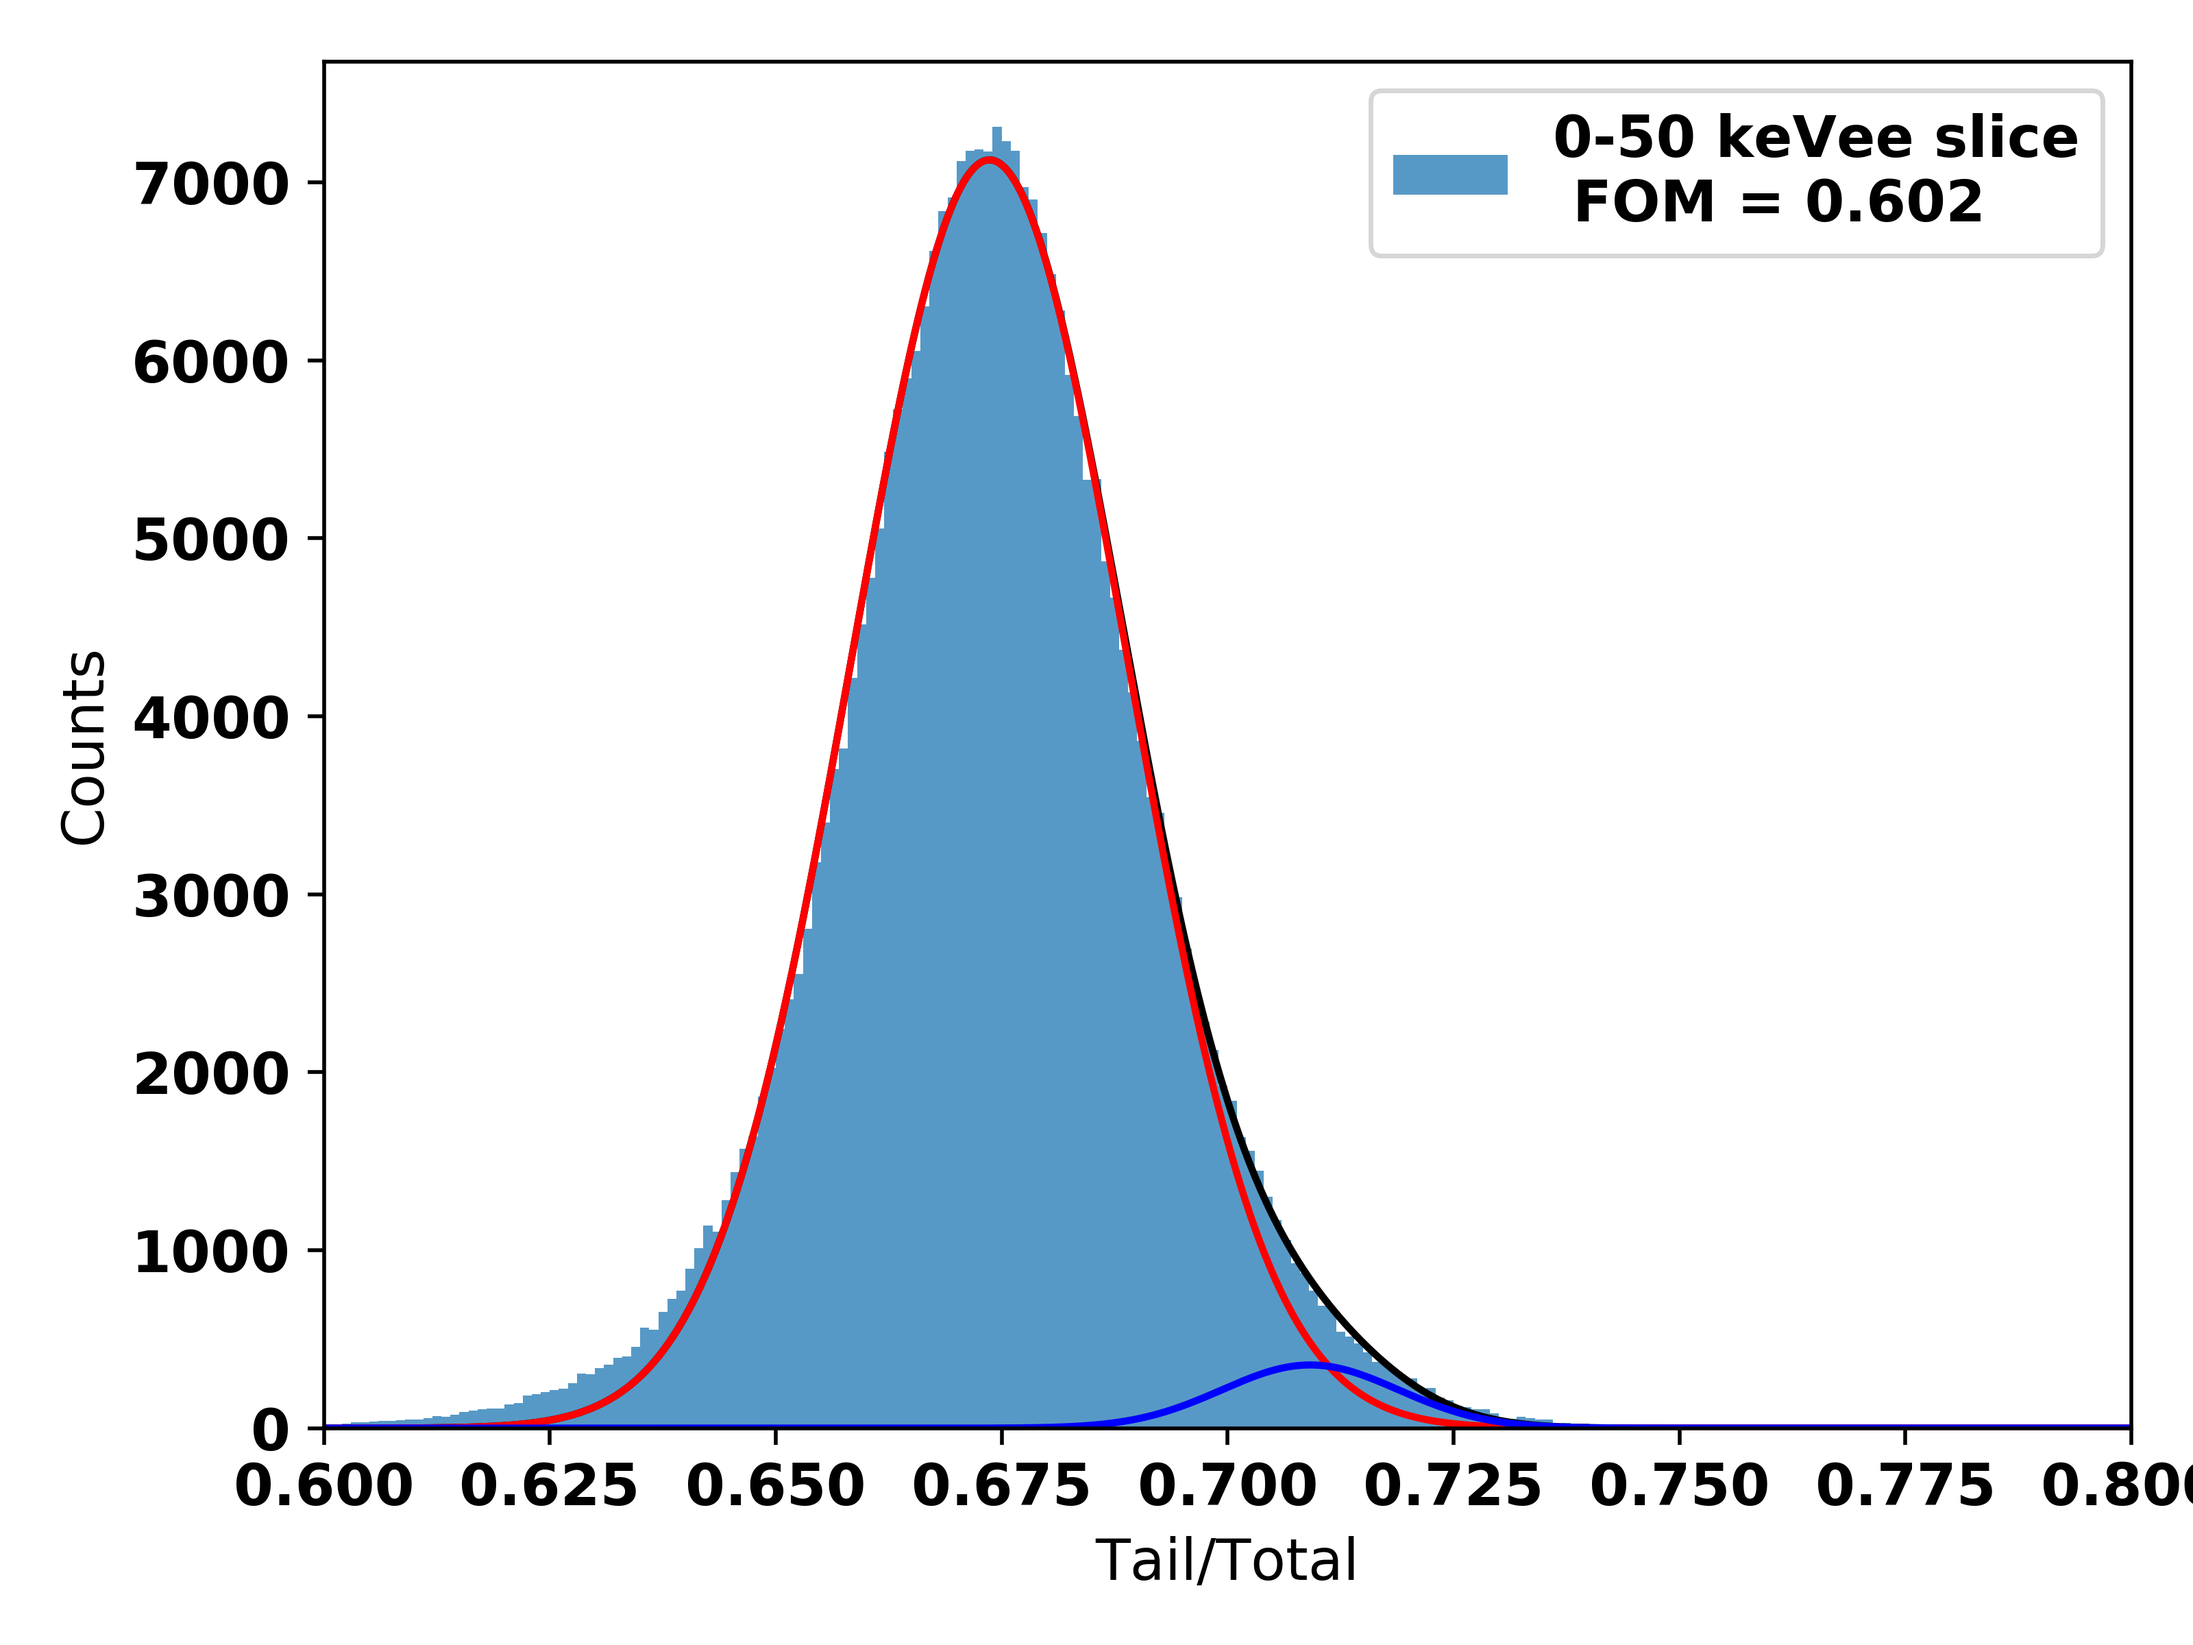
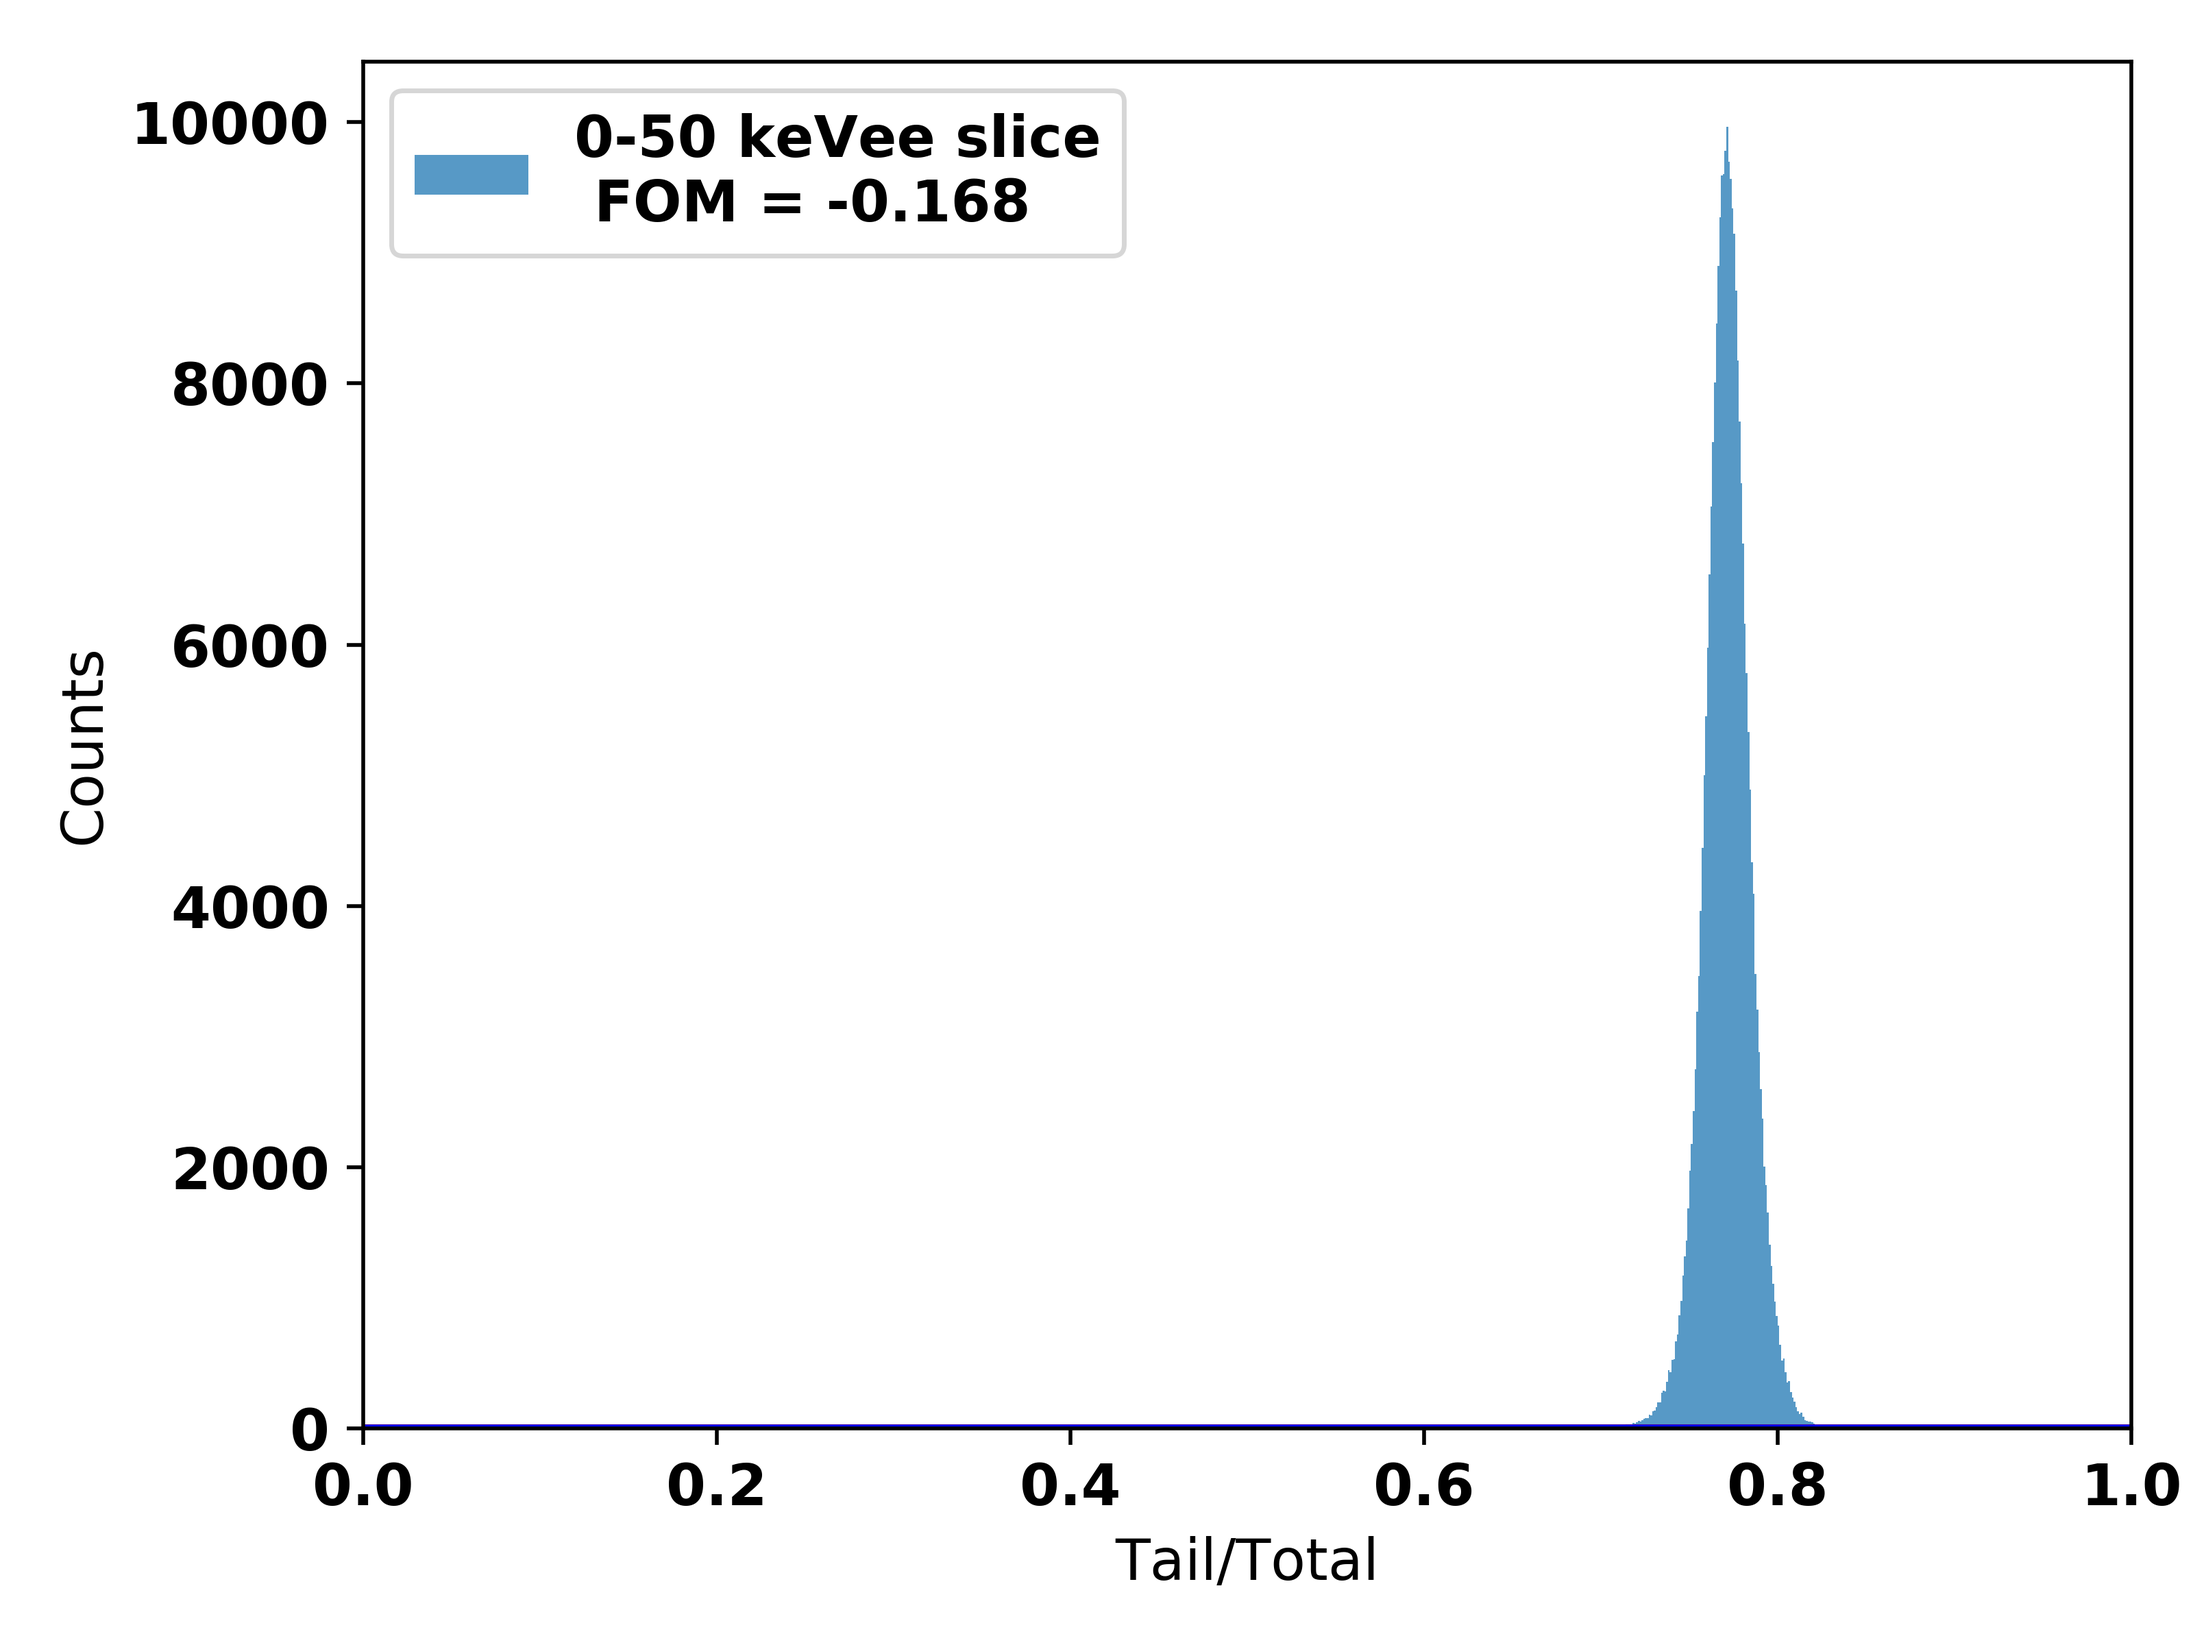
Messing with automatic FOM fitting

diff --git a/psd.py b/psd.py
@@ -10,8 +10,10 @@ import matplotlib.pyplot as plt
 import matplotlib.colors as mcolors
 from matplotlib.colors import LogNorm
 import numpy as np
+import heapq
 from scipy.optimize import leastsq
 from scipy.optimize import curve_fit
+from scipy.signal import argrelextrema
 
 #data = X14
 
@@ -50,7 +52,7 @@ def PSD_hist(binnum=300):
                     , norm=LogNorm())
     plt.colorbar()
     plt.xlim(0, ergLimit)
-    plt.ylim(0.4, 0.7) 
+    plt.ylim(0.8,1) 
     plt.xlabel(r'Pulse Integral (keVee)')
     plt.ylabel(r'Tail/Total')
 
@@ -128,11 +130,28 @@ def PSD_ergslice( pi, cal, ratio, ergbin=50, maxerg = 1000, plot=1 ):
         
         # Fit a double Gaussian to the slice
         
+        # Find local maxima
+        locmax = argrelextrema(ratioHist, np.greater)       
+        
+        xg = locmax[0][0]
+        xn = locmax[0][1]
+               
+        x01 = centers[xg]
+        x02 = centers[xn]
+        a1 = ratioHist[xg]
+        a2 = ratioHist[xn]
+        
+        print(str(i) + ' ' + str(x01) + ' ' +str(x02))
+        
+        
+        '''
+ 
         # Guesses
         a1 = max(ratioHist)
-        a2 = a1 /10
+        a2 = a1 /11
         x01 = centers[np.argmax(ratioHist)]
-        x02 = 0.69
+        x02 = 0.8891
+        '''
         sigma1 = 0.01
         sigma2 = 0.01
         
@@ -167,7 +186,7 @@ def PSD_ergslice( pi, cal, ratio, ergbin=50, maxerg = 1000, plot=1 ):
             plt.ylabel(r'Counts')
             plt.legend()
             plt.tight_layout()
-            plt.xlim(0.6,0.8)
+            plt.xlim(0,1)
             plt.savefig('PSD_'+str(lowerErg)+'_'+str(upperErg), dpi=500)
 
     return ergvec, fomvec

diff --git a/the_quickness.py b/the_quickness.py
@@ -11,7 +11,7 @@ from bar import Bar
 from edgeCal import EdgeCal
 
 #X17 = DataLoad('D:\\X17data.p')
-X18 = DataLoad('D:\\X18data.p')
+X18 = DataLoad('D:\\X18data-0-20-370.p')
 #X19 = DataLoad('D:\\X19data.p')
 
 B1cs1 = Bar(X17[0],X17[1])
@@ -27,4 +27,3 @@ B11 = EdgeCal(B1cs1[0,:], histLabel='B11', xCal=0, integral = True)
 B12 = EdgeCal(B1cs2[0,:], histLabel='B12', xCal=0, integral = True)
 B21 = EdgeCal(B2cs1[0,:], histLabel='B21', xCal=0, integral = True)
 B22 = EdgeCal(B2cs2[0,:], histLabel='B22', xCal=0, integral = True)
-
